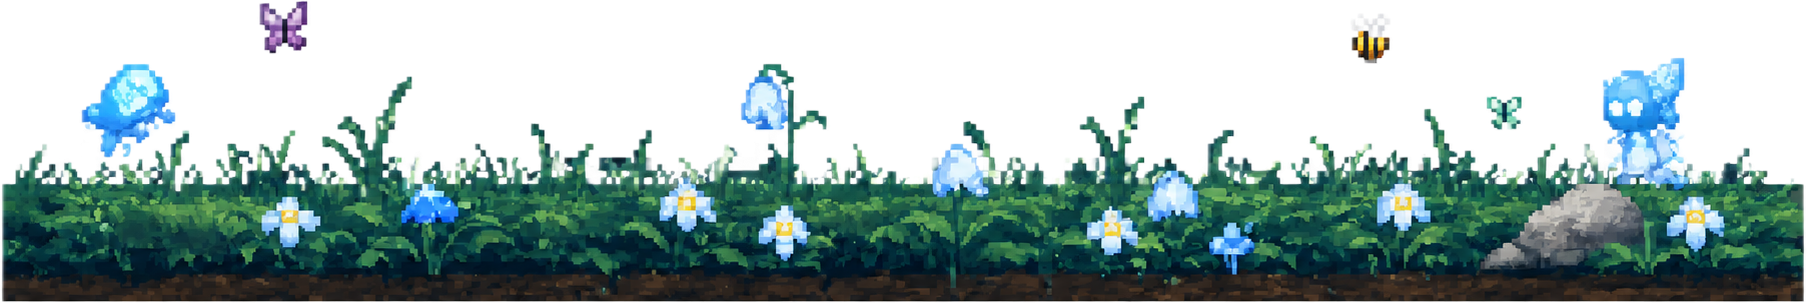
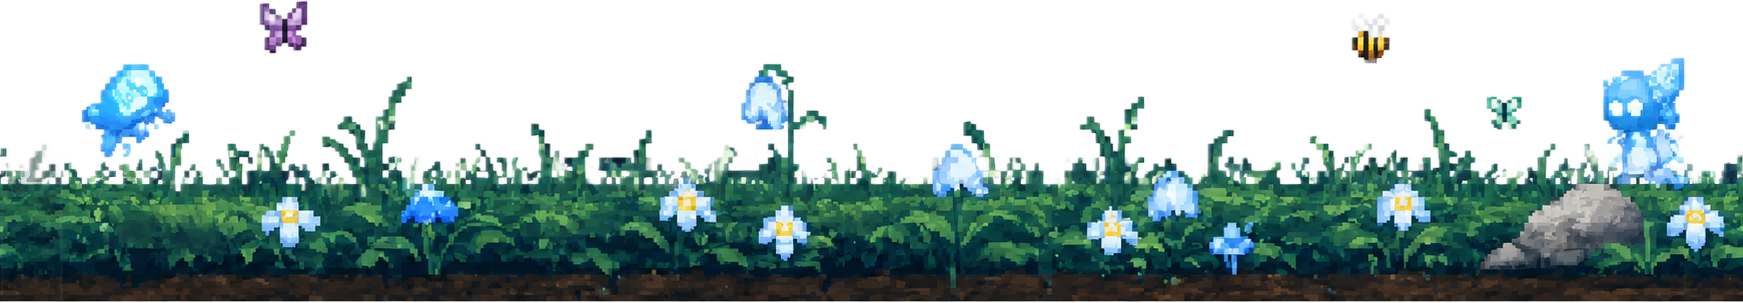
Make the autumn and rainy grass strips loop seamlessly

diff --git a/Project/src/entrypoints/popup/App.svelte b/Project/src/entrypoints/popup/App.svelte
@@ -131,8 +131,8 @@
   // lines up; `dot` is the colour of its picker circle.
   const THEMES = {
     meadow: { label: 'Meadow', bg: 'url(/scene/background.png)', grass: '/scene/grass.png', tile: 1571, dot: '#7fb43f' },
-    autumn: { label: 'Autumn', bg: 'url(/scene/autumn-bg.png)', grass: '/scene/autumn-grass.png', tile: 2172, dot: '#d5852f' },
-    rainy: { label: 'Rainy', bg: 'url(/scene/rainy-bg.png)', grass: '/scene/rainy-grass.png', tile: 1807, dot: '#6d88a8', zoom: '150%' },
+    autumn: { label: 'Autumn', bg: 'url(/scene/autumn-bg.png)', grass: '/scene/autumn-grass.png', tile: 1459, dot: '#d5852f' },
+    rainy: { label: 'Rainy', bg: 'url(/scene/rainy-bg.png)', grass: '/scene/rainy-grass.png', tile: 1743, dot: '#6d88a8', zoom: '150%' },
   };
   const THEME_KEYS = Object.keys(THEMES);
   let theme = $derived(s?.theme && THEMES[s.theme] ? s.theme : 'meadow');